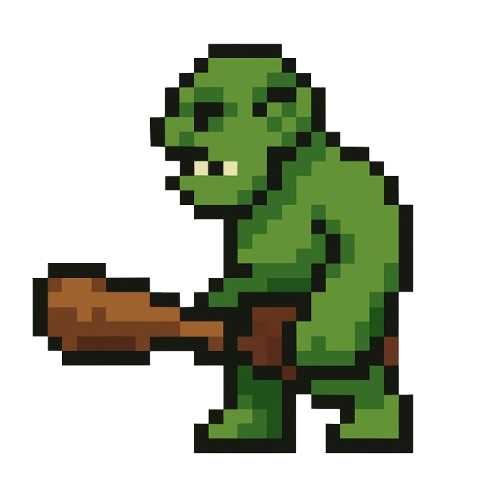
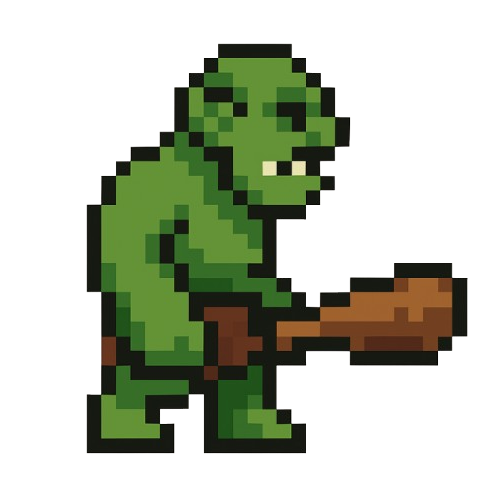
units now face the direction they are walking

diff --git a/src/empirebuilder/GridPanel.java b/src/empirebuilder/GridPanel.java
@@ -158,7 +158,15 @@ public class GridPanel extends JPanel {
                 final int drawX = screenX - (img.getWidth() / 2);
                 final int drawY = screenY - (img.getHeight() / 2);
 
-                g.drawImage(img, drawX, drawY, null);
+                if (unit.getLastVelX() < 0) {
+                    AffineTransform oldTransform = g.getTransform();
+                    g.translate(screenX, screenY);
+                    g.scale(-1, 1);
+                    g.drawImage(img, -(img.getWidth() / 2), -(img.getHeight() / 2), null);
+                    g.setTransform(oldTransform);
+                } else {
+                    g.drawImage(img, drawX, drawY, null);
+                }
             }
     }
 
